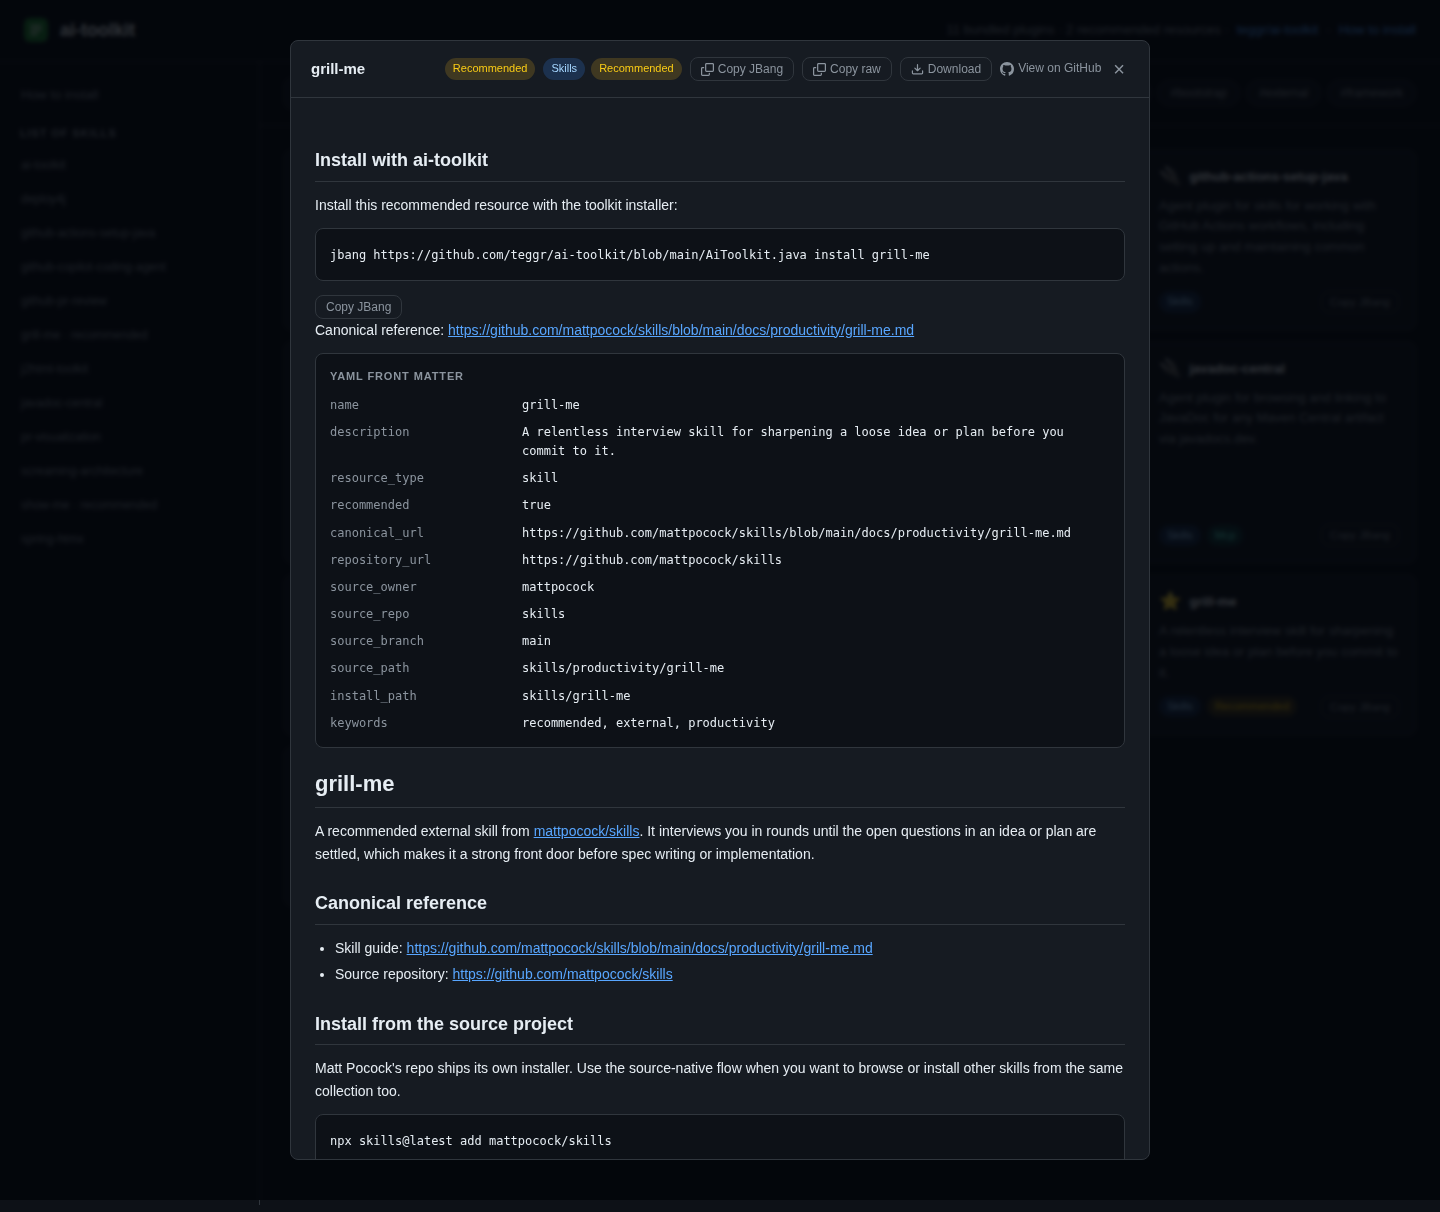
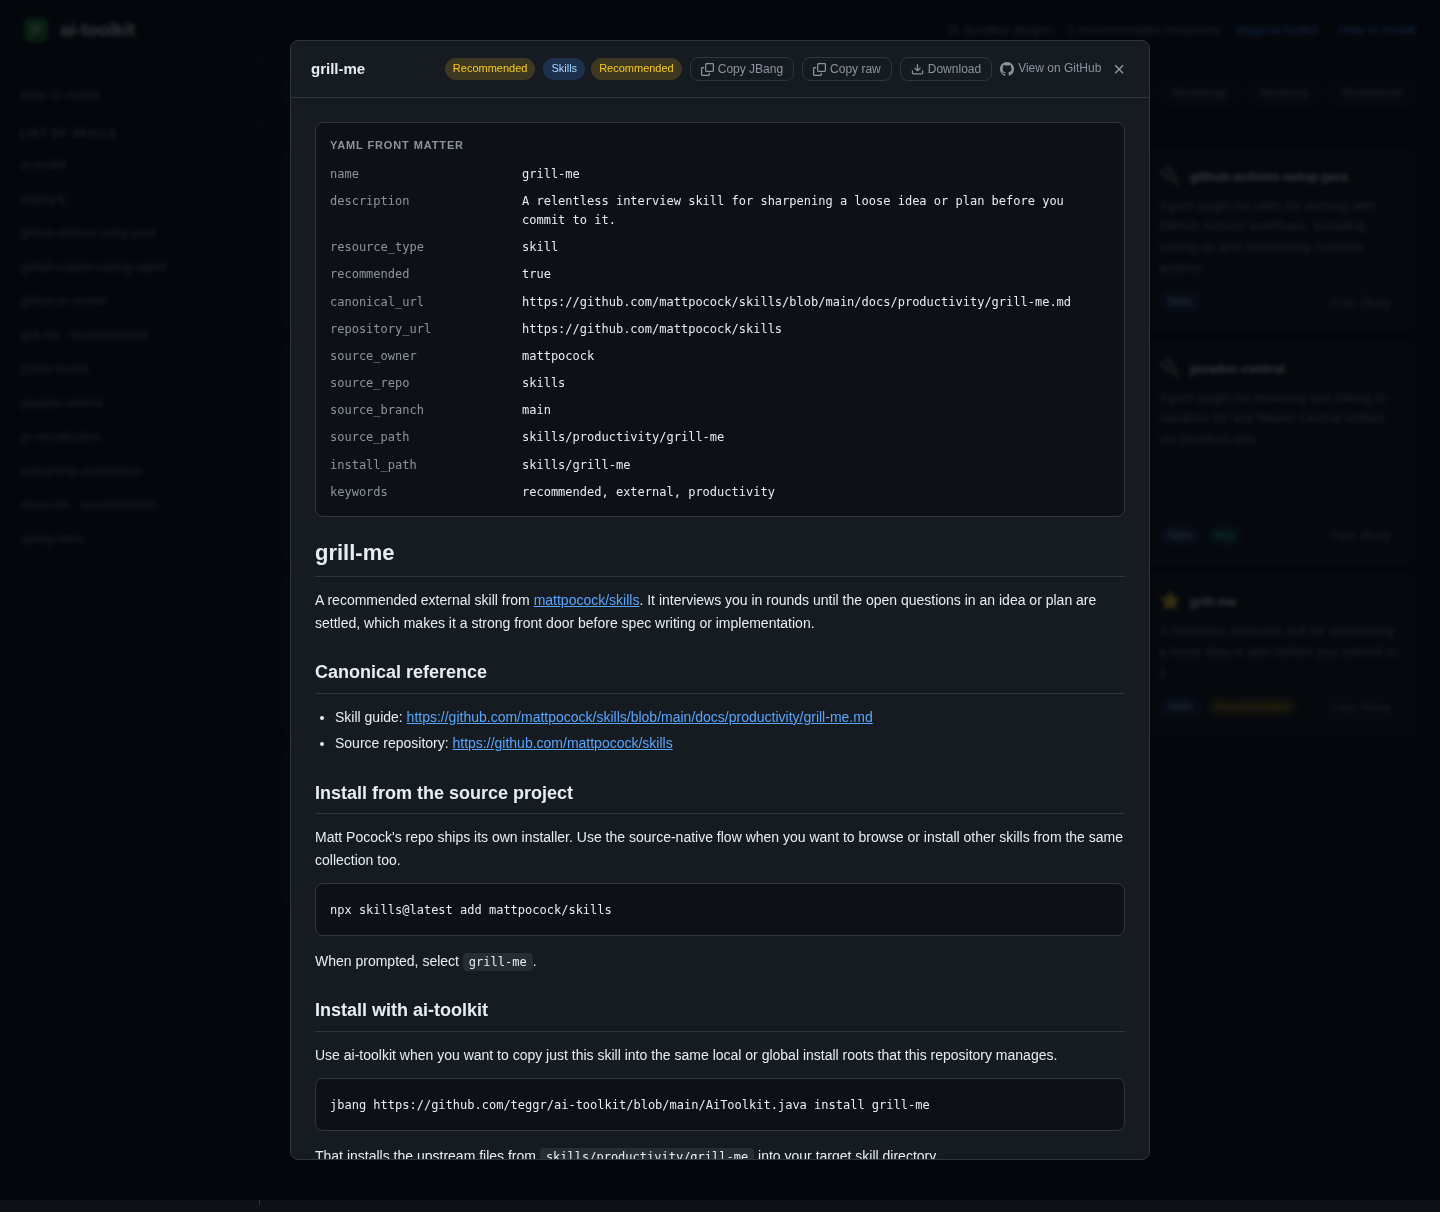
Tidy recommended resource docs integration

diff --git a/docs/index.html b/docs/index.html
@@ -969,7 +969,6 @@
 
     try {
       const isPlugin = item.type === 'plugin';
-      const isRecommendedCard = item.type === 'recommended';
       let rawContent = '';
       let contentType = 'text/markdown';
 
@@ -981,14 +980,14 @@
         const frontMatter = item.frontMatter || parseFrontMatter(rawContent);
         const markdownBody = item.markdownBody || (frontMatter ? frontMatter.content : rawContent);
         const metadataSection = renderFrontMatter(frontMatter);
-        body.innerHTML = `${isRecommendedCard ? renderRecommendedInstallSection(item) : ''}${metadataSection}${marked.parse(markdownBody)}`;
+        body.innerHTML = `${metadataSection}${marked.parse(markdownBody)}`;
       }
 
       if (isPlugin) {
         contentType = 'application/json';
       }
 
-      if (isPlugin || isRecommendedCard) {
+      if (isPlugin) {
         const installJbangBtn = document.getElementById('modal-install-jbang-btn');
         if (installJbangBtn) {
           installJbangBtn.onclick = async () => {
@@ -1072,10 +1071,7 @@
   }
 
   async function fetchRecommendedMarkdown(resource) {
-    const url = (location.hostname === 'localhost' || location.hostname === '127.0.0.1')
-      ? new URL(resource.path, window.location.href).toString()
-      : `https://raw.githubusercontent.com/${OWNER}/${REPO}/${BRANCH}/${resource.repoPath || resource.path}`;
-    const res = await fetch(url);
+    const res = await fetch(new URL(resource.path, window.location.href).toString());
     if (!res.ok) throw new Error(`Failed to fetch ${resource.path}: ${res.status}`);
     return res.text();
   }
@@ -1173,20 +1169,6 @@
       <section class="front-matter">
         <div class="front-matter-title">Plugin Information</div>
         <div class="front-matter-grid">${rows}</div>
-      </section>
-    `;
-  }
-
-  function renderRecommendedInstallSection(item) {
-    const command = jbangCommand(item);
-    const canonicalUrl = item.frontMatter?.data?.canonical_url;
-    return `
-      <section>
-        <h2>Install with ai-toolkit</h2>
-        <p>Install this recommended resource with the toolkit installer:</p>
-        <pre><code>${escapeHtml(command)}</code></pre>
-        <button class="modal-action-btn" id="modal-install-jbang-btn" type="button">Copy JBang</button>
-        ${canonicalUrl ? `<p>Canonical reference: <a href="${escapeHtml(canonicalUrl)}" target="_blank" rel="noopener">${escapeHtml(canonicalUrl)}</a></p>` : ''}
       </section>
     `;
   }

diff --git a/README.md b/README.md
@@ -243,12 +243,7 @@ Reference skill for working with the [j2html-toolkit](https://github.com/teggr/j
 
 ## Recommended external skills
 
-These resources are maintained outside this repository, but ai-toolkit can surface and install them into the same local or global roots as the bundled resources.
-
-| Resource | Type | Canonical reference | Source-native install | ai-toolkit install |
-|---|---|---|---|---|
-| `grill-me` | recommended skill | <https://github.com/mattpocock/skills/blob/main/docs/productivity/grill-me.md> | `npx skills@latest add mattpocock/skills` (then select `grill-me`) | `jbang AiToolkit.java install grill-me` |
-| `show-me` | recommended skill | <https://github.com/humanlayer/skills/blob/main/plugins/show-me/skills/show-me/SKILL.md> | `npx skills add humanlayer/skills --skill show-me` | `jbang AiToolkit.java install show-me` |
+ai-toolkit also curates recommended external skills such as `grill-me` and `show-me`. For the canonical references and the synchronized source-native versus ai-toolkit install commands, see the install guide at <https://teggr.github.io/ai-toolkit/install.html>.
 
 ## References
 
